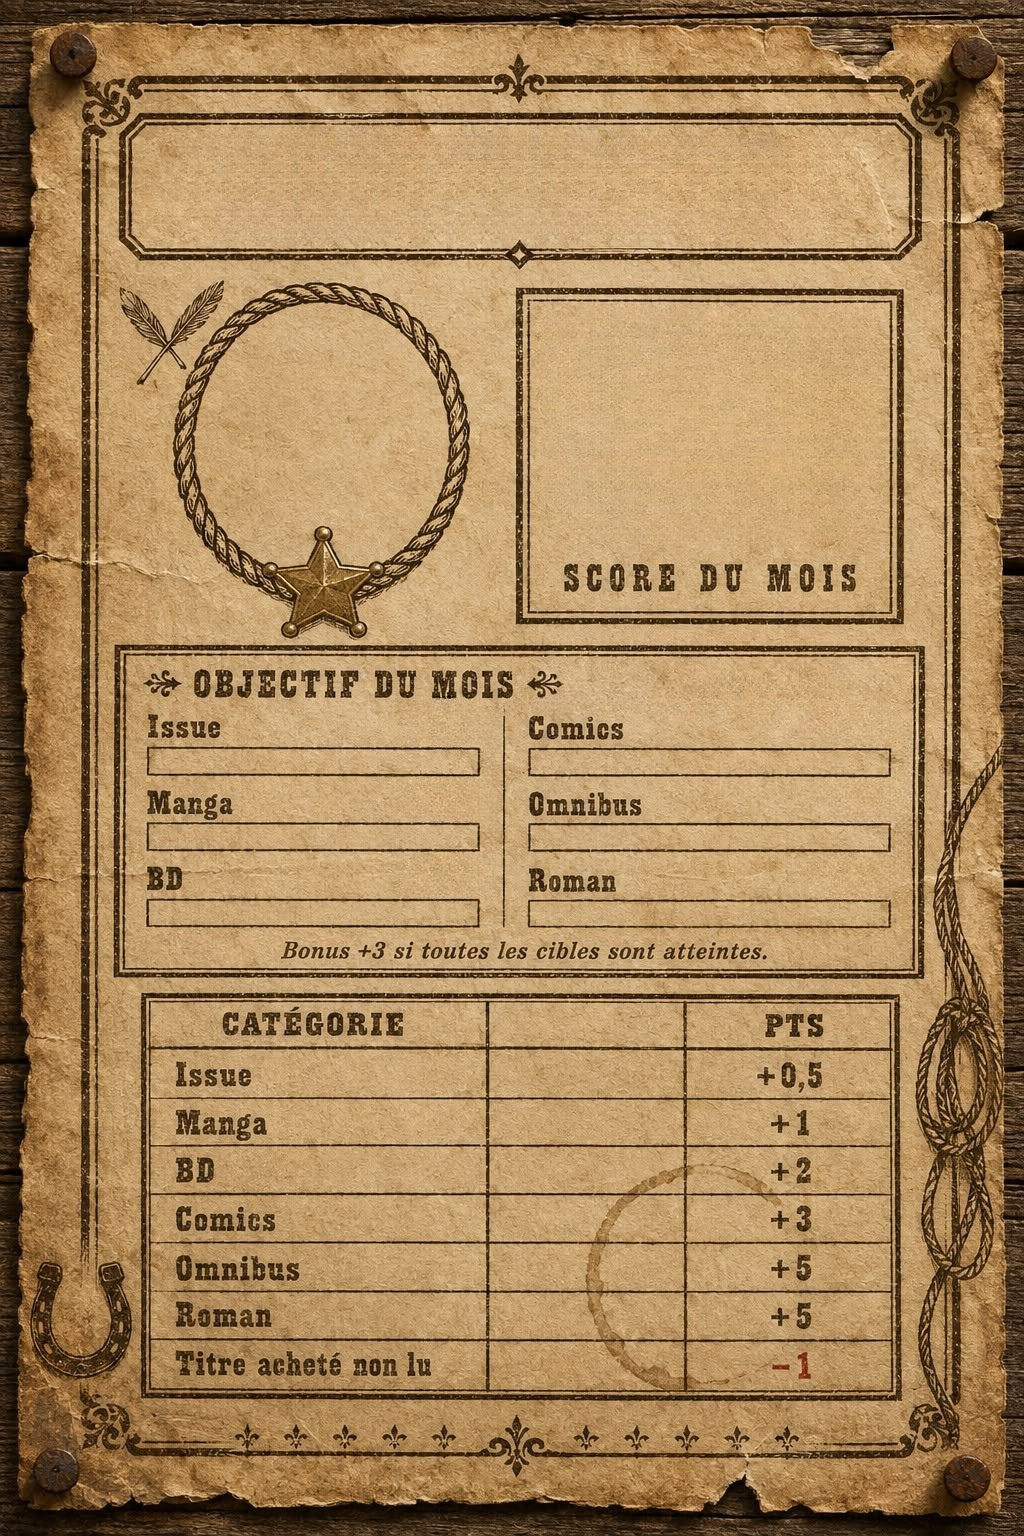
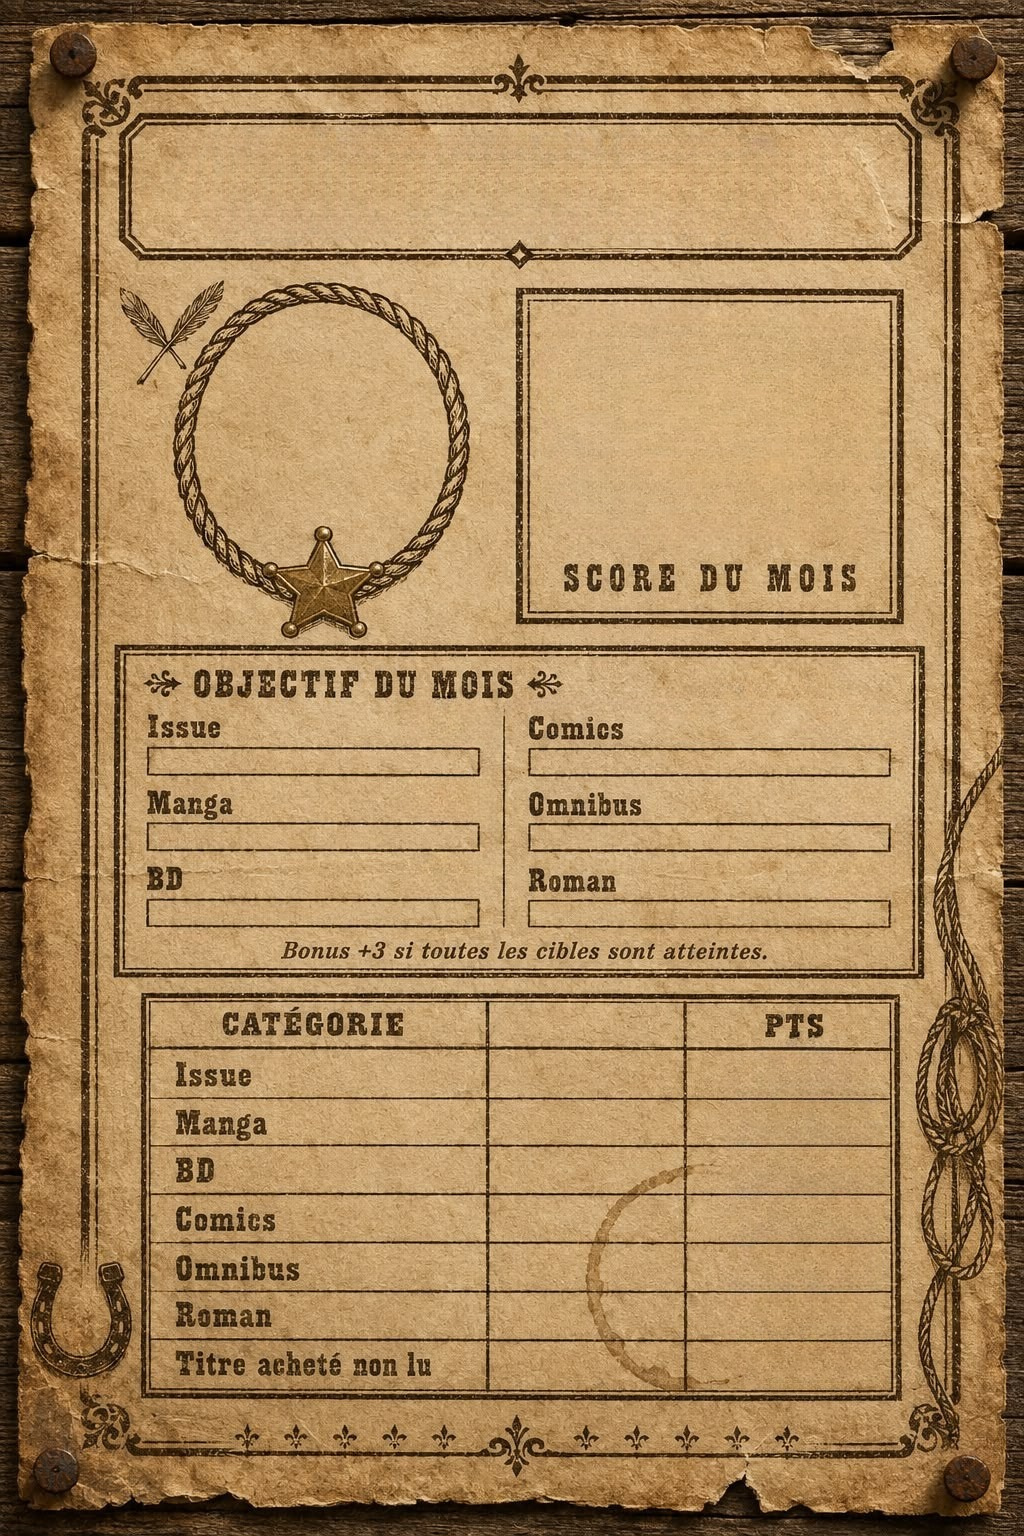
feat(partage): la colonne PTS affiche les points gagnés par ligne, pas le barème (#351)
La carte de partage montrait le barème incrusté (+0,5 … −1) dans la colonne
PTS. Elle dit désormais ce que chaque ligne rapporte au mois — lectures ×
barème, puis le malus des achats non lus : colonne + bonus = score.

- Fonds régénérés depuis les nouvelles vierges de Prem (colonne PTS vide,
  « 0 / 0 » et résidu « +21 » nettoyés), vignettes comprises.
- Style de l'ancien barème reproduit thème par thème (police, corps,
  interlettrage, encres) par superposition fond de prod − fond vierge ;
  centre x exact au vrai moteur, lignes y des compteurs (centre mesuré des
  cellules).
- Encre au signe : gain, malus, zéro neutre (crème cerclé sur Comics pop).

Changed region(s): [[0.7188, 0.6562, 0.8438, 0.9062]]

diff --git a/lib/share/themes.ts b/lib/share/themes.ts
@@ -119,6 +119,24 @@ export type ShareTheme = {
     x: number;
     /** Corps FIXE des compteurs. */
     countStyle: ShareTextStyle;
+    /**
+     * La colonne PTS : les points GAGNÉS par ligne (lectures × barème, malus
+     * des achats), sur les mêmes lignes `rows` que les compteurs. Police,
+     * corps, interlettrage et encres relevés par superposition sur le barème
+     * que les fonds portaient avant (fonds de prod − fonds vierges). Le zéro
+     * prend une encre neutre : un « 0 » rouge sur « Titre acheté non lu »
+     * annoncerait un malus qui n'existe pas.
+     */
+    points: {
+      /** Centre x de la colonne PTS. */
+      x: number;
+      /** Corps FIXE ; `color` est l'encre des gains. */
+      style: ShareTextStyle;
+      /** L'encre du malus. */
+      penaltyColor: string;
+      /** L'encre du zéro — par défaut celle des compteurs. */
+      zeroColor?: string;
+    };
   };
 };
 
@@ -154,6 +172,7 @@ export const SHARE_THEMES: readonly ShareTheme[] = [
     table: {
       rows: [1043, 1103, 1163, 1223, 1283, 1341, 1401], x: 565,
       countStyle: { font: "exo-2-600", size: 34, color: "#eae6f8" },
+      points: { x: 806, style: { font: "exo-2-600", size: 38, color: "#34d5a4", letterSpacing: 0.05 }, penaltyColor: "#d53761" },
     },
   },
   {
@@ -184,6 +203,7 @@ export const SHARE_THEMES: readonly ShareTheme[] = [
     table: {
       rows: [1130, 1178, 1222, 1268, 1312, 1358, 1404], x: 595,
       countStyle: { font: "special-elite", size: 38, color: "#3a332a" },
+      points: { x: 801, style: { font: "special-elite", size: 30, color: "#3c2c14", letterSpacing: 0.15 }, penaltyColor: "#763b28" },
     },
   },
   {
@@ -223,6 +243,7 @@ export const SHARE_THEMES: readonly ShareTheme[] = [
     table: {
       rows: [1068, 1123, 1178, 1235, 1290, 1346, 1402], x: 567,
       countStyle: { font: "oswald-600", size: 36, color: "#0b0907" },
+      points: { x: 812, style: { font: "oswald-600", size: 36, color: "#0b0806", letterSpacing: 0.05 }, penaltyColor: "#9a1613" },
     },
   },
   {
@@ -259,6 +280,7 @@ export const SHARE_THEMES: readonly ShareTheme[] = [
     table: {
       rows: [1068, 1120, 1171, 1223, 1275, 1326, 1377], x: 575,
       countStyle: { font: "eb-garamond-600", size: 37, color: "#d8c9a4" },
+      points: { x: 807, style: { font: "eb-garamond-600", size: 37, color: "#a78552", letterSpacing: 0.02 }, penaltyColor: "#8f3e30" },
     },
   },
   {
@@ -289,6 +311,7 @@ export const SHARE_THEMES: readonly ShareTheme[] = [
     table: {
       rows: [1067, 1120, 1173, 1227, 1281, 1335, 1390], x: 560,
       countStyle: { font: "special-elite", size: 38, color: "#362a17" },
+      points: { x: 790, style: { font: "special-elite", size: 36, color: "#261706", letterSpacing: 0.14 }, penaltyColor: "#4b290e" },
     },
   },
   {
@@ -319,6 +342,7 @@ export const SHARE_THEMES: readonly ShareTheme[] = [
     table: {
       rows: [1084, 1134, 1183, 1232, 1281, 1331, 1380], x: 565,
       countStyle: { font: "oswald-500", size: 35, color: "#d6d0c0" },
+      points: { x: 798, style: { font: "oswald-500", size: 29.5, color: "#b2aca4", letterSpacing: 0.15 }, penaltyColor: "#813538" },
     },
   },
   {
@@ -351,6 +375,7 @@ export const SHARE_THEMES: readonly ShareTheme[] = [
     table: {
       rows: [1073, 1127, 1180, 1234, 1288, 1342, 1396], x: 567,
       countStyle: { font: "eb-garamond-500", size: 37, color: "#5f4a44" },
+      points: { x: 801, style: { font: "eb-garamond-500", size: 34, color: "#604c44", letterSpacing: 0.03 }, penaltyColor: "#a07d7c" },
     },
   },
   {
@@ -394,6 +419,7 @@ export const SHARE_THEMES: readonly ShareTheme[] = [
     table: {
       rows: [995, 1036, 1077, 1118, 1159, 1200, 1241], x: 570,
       countStyle: { font: "rajdhani-700", size: 34, color: "#8ecfec" },
+      points: { x: 778, style: { font: "rajdhani-700", size: 34, color: "#86d1ef", letterSpacing: 0.05 }, penaltyColor: "#c06364" },
     },
   },
   {
@@ -439,6 +465,20 @@ export const SHARE_THEMES: readonly ShareTheme[] = [
     table: {
       rows: [1043, 1096, 1149, 1201, 1254, 1306, 1360], x: 572,
       countStyle: { font: "archivo-black", size: 34, color: "#16120e" },
+      points: {
+        // Le seul qui quitte la police des compteurs : le barème du fond était
+        // en capitales grasses penchées, cerclées de noir (contour centré sur le
+        // tracé → 7 px pour ~3,5 px visibles autour du remplissage).
+        x: 808,
+        style: {
+          font: "archivo-black", size: 40, color: "#1f4a8f", letterSpacing: 0.02, skewDeg: -10,
+          stroke: { width: 7, color: "#15100c" },
+        },
+        penaltyColor: "#c42e25",
+        // L'encre des compteurs sous ce contour noir ferait une tache : le zéro
+        // prend le crème du pseudo, cerclé comme lui.
+        zeroColor: "#f2e5c8",
+      },
     },
   },
   {
@@ -469,6 +509,7 @@ export const SHARE_THEMES: readonly ShareTheme[] = [
     table: {
       rows: [1075, 1123, 1170, 1219, 1267, 1315, 1364], x: 590,
       countStyle: { font: "graduate", size: 38, color: "#46301a" },
+      points: { x: 792, style: { font: "graduate", size: 32, color: "#4b2f0d", letterSpacing: 0.04 }, penaltyColor: "#783210" },
     },
   },
 ];

diff --git a/lib/share/render-card.ts b/lib/share/render-card.ts
@@ -1,3 +1,4 @@
+import { formatPoints } from "@/lib/scoring/report-text";
 import { formatObjectiveCell, type ShareCardData } from "@/lib/share/card-data";
 import {
   CARD_HEIGHT,
@@ -44,6 +45,7 @@ function themeFontKeys(theme: ShareTheme): ShareFontKey[] {
       theme.score.style.font,
       theme.objectives.valueStyle.font,
       theme.table.countStyle.font,
+      theme.table.points.style.font,
     ]),
   ];
 }
@@ -273,6 +275,18 @@ function drawCounts(ctx: Ctx, theme: ShareTheme, data: ShareCardData): void {
   });
 }
 
+/**
+ * La colonne PTS : ce que chaque ligne rapporte, à l'encre du signe — gain,
+ * malus, ou l'encre neutre du zéro (§4.15).
+ */
+function drawPoints(ctx: Ctx, theme: ShareTheme, data: ShareCardData): void {
+  const { x, style, penaltyColor, zeroColor = theme.table.countStyle.color } = theme.table.points;
+  data.points.forEach((points, index) => {
+    const color = points > 0 ? style.color : points < 0 ? penaltyColor : zeroColor;
+    drawText(ctx, formatPoints(points), x, theme.table.rows[index], { ...style, color });
+  });
+}
+
 // --- L'entrée du moteur ------------------------------------------------------
 
 /**
@@ -304,6 +318,7 @@ export async function renderShareCard(
   drawText(ctx, data.score, theme.score.x, theme.score.y, theme.score.style, { maxWidth: theme.score.maxWidth });
   drawObjectives(ctx, theme, data);
   drawCounts(ctx, theme, data);
+  drawPoints(ctx, theme, data);
 }
 
 /** L'image à partager — JPEG qualité 0,9 (~300 Ko), parfait pour une feuille native. */

diff --git a/lib/share/card-data.test.ts b/lib/share/card-data.test.ts
@@ -58,6 +58,30 @@ describe("deriveShareCardData", () => {
     expect(card.counts).toEqual([37, 0, 0, 7, 0, 2, 1]);
   });
 
+  it("la colonne PTS : ce que chaque ligne rapporte, pas le barème", () => {
+    const card = deriveShareCardData(augustReport, "Premou");
+    // 37 issues × 0,5 · 7 comics × 3 · 2 romans × 5 · 1 achat non lu × −1.
+    expect(card.points).toEqual([18.5, 0, 0, 21, 0, 10, -1]);
+  });
+
+  it("colonne PTS + bonus d'objectif = score du mois", () => {
+    const sum = (values: number[]) => values.reduce((total, value) => total + value, 0);
+    const august = deriveShareCardData(augustReport, "Premou");
+    expect(sum(august.points)).toBe(augustReport.total);
+
+    const achieved: MonthlyReport = {
+      ...augustReport,
+      objective: { progress: [{ category: "comics", target: 6, finished: 7 }], achieved: true, bonus: 3 },
+      total: 51.5,
+    };
+    expect(sum(deriveShareCardData(achieved, "Premou").points) + 3).toBe(achieved.total);
+  });
+
+  it("sans achat non lu, la ligne du malus vaut 0 — jamais −0", () => {
+    const card = deriveShareCardData({ ...augustReport, unreadPurchaseCount: 0, purchasePenalty: 0, total: 49.5 }, "x");
+    expect(Object.is(card.points[6], 0)).toBe(true);
+  });
+
   it("sans objectif déclaré, les 6 cellules sont « — »", () => {
     const card = deriveShareCardData({ ...augustReport, objective: null }, "Premou");
     expect(card.objectives).toEqual([null, null, null, null, null, null]);

diff --git a/lib/share/card-data.ts b/lib/share/card-data.ts
@@ -1,5 +1,6 @@
 import { formatMonthFrench } from "@/lib/dates";
 import { formatPoints } from "@/lib/scoring/report-text";
+import { SCORING_SCALE } from "@/lib/scoring/scale";
 import { ALL_CATEGORIES, type MonthlyReport } from "@/lib/scoring/types";
 
 /**
@@ -32,6 +33,12 @@ export type ShareCardData = {
   objectives: ShareObjectiveCell[];
   /** 7 compteurs : les 6 catégories puis « Titre acheté non lu ». */
   counts: number[];
+  /**
+   * 7 points, alignés sur les compteurs : ce que chaque ligne RAPPORTE au mois
+   * (lectures × barème, puis le malus des achats non lus). Le bonus d'objectif
+   * n'a pas de ligne au tableau : colonne + bonus = score.
+   */
+  points: number[];
 };
 
 export function deriveShareCardData(report: MonthlyReport, displayName: string): ShareCardData {
@@ -47,6 +54,10 @@ export function deriveShareCardData(report: MonthlyReport, displayName: string):
       return { finished: line.finished, target: line.target, ratio: Math.min(1, line.finished / line.target) };
     }),
     counts: [...ALL_CATEGORIES.map((category) => report.finishedByCategory[category]), report.unreadPurchaseCount],
+    points: [
+      ...ALL_CATEGORIES.map((category) => report.finishedByCategory[category] * SCORING_SCALE.pointsByCategory[category]),
+      report.purchasePenalty,
+    ],
   };
 }
 

diff --git a/lib/share/themes.test.ts b/lib/share/themes.test.ts
@@ -68,11 +68,26 @@ describe("SHARE_THEMES", () => {
     }
   });
 
+  it("la colonne PTS : à droite des compteurs, dans le cadre, trois encres pleines", () => {
+    for (const theme of SHARE_THEMES) {
+      const { points, countStyle } = theme.table;
+      expect(points.x).toBeGreaterThan(theme.table.x);
+      expect(points.x).toBeLessThan(CARD_WIDTH);
+      expect(points.style.size).toBeGreaterThan(0);
+      // Gain, malus, zéro (encre des compteurs) : l'encre se choisit au signe,
+      // un dégradé n'aurait pas de sens ici.
+      expect(points.style.gradient).toBeUndefined();
+      for (const color of [points.style.color, points.penaltyColor, points.zeroColor ?? countStyle.color]) {
+        expect(color).toMatch(/^#[0-9a-f]{6}$/i);
+      }
+    }
+  });
+
   it("chaque police référencée existe dans le registre auto-hébergé", () => {
     for (const theme of SHARE_THEMES) {
       const keys = [
         theme.name.style.font, theme.month.style.font, theme.score.style.font,
-        theme.objectives.valueStyle.font, theme.table.countStyle.font,
+        theme.objectives.valueStyle.font, theme.table.countStyle.font, theme.table.points.style.font,
       ];
       for (const key of keys) expect(SHARE_FONTS[key]).toBeDefined();
     }

diff --git a/lib/share/guest-report.test.ts b/lib/share/guest-report.test.ts
@@ -91,6 +91,8 @@ describe("buildGuestReport", () => {
     expect(card.name).toBe("LÉNA");
     expect(card.monthLabel).toBe("SEPTEMBRE 2026");
     expect(card.counts).toEqual([4, 2, 1, 3, 0, 1, 2]);
+    // Le vrai barème, jamais recopié : 4 × 0,5 · 2 × 1 · 1 × 2 · 3 × 3 · 0 · 1 × 5 · 2 × −1.
+    expect(card.points).toEqual([2, 2, 2, 9, 0, 5, -2]);
     expect(card.objectives[0]).toEqual({ finished: 4, target: 5, ratio: 4 / 5 });
   });
 });

diff --git a/docs/protos/templates/README.md b/docs/protos/templates/README.md
@@ -26,10 +26,11 @@ vides. Avant de câbler le rendu, il faudra régénérer ces zones **vides**
 trancher une stratégie de recouvrement. La colonne des compteurs du tableau,
 elle, est déjà vide — prête à recevoir les chiffres.
 
-Le barème incrusté (PTS) correspond à `lib/scoring/scale.ts` : issue +0,5,
-manga +1, BD +2, comics +3, omnibus +5, roman +5, titre acheté non lu −1,
-bonus objectif +3. **À revérifier à chaque nouveau thème généré** — un barème
-qui divergerait mentirait à l'antenne.
+Les originaux `theme_N` portent le barème incrusté dans la colonne PTS
+(+0,5 … −1). **Les vierges ne l'ont plus** (01/10/2026) : la colonne PTS
+affiche désormais ce que chaque ligne RAPPORTE, dessiné par l'app (specs
+§4.15). Seul le « Bonus +3 » reste incrusté — **à revérifier contre
+`lib/scoring/scale.ts` à chaque nouveau thème généré**.
 
 ## Fonds vierges (`theme_N_virgin`) — état du 01/09/2026
 
@@ -58,3 +59,20 @@ score t1 rapproché du trait rouge, t3 recentré plus haut, t5 décalé à
 gauche, t6 posé sur la ligne ornée au-dessus de « SCORE DU MOIS », t9 sans
 jamais sortir du cadre — et test « +102,5 » (3 chiffres) sur les 10, avec
 rétrécissement automatique pour ne déborder nulle part.
+
+## Fonds vierges — passe du 01/10/2026
+
+Retouche des vierges précédentes (même cadrage, calage conservé) : les six
+« 0 / 0 » des objectifs, le résidu « +21 » de `theme_9` **et la colonne PTS**
+sont vidés sur les 10. Différence mesurée avec les fonds de prod : seule la
+colonne PTS bouge (et la trame du bloc objectifs de `theme_8`, régénérée à
+l'identique : mêmes jauges, mêmes libellés).
+
+**Calage de la colonne PTS** — par superposition, sans passer par le proto :
+l'encre de l'ancien barème = |fond de prod − fond vierge|, et un banc
+(Edge headless, vrai canvas) cherche police, corps, interlettrage et centre x
+qui la recouvrent au mieux (corrélation normalisée, robuste au grain des fonds
+texturés), puis échantillonne les encres au cœur des glyphes. Vérifié ensuite
+avec le vrai moteur : centre x exact (0-1 px) sur les 10. En y, les points
+suivent les lignes des compteurs, qui tombent au centre mesuré des cellules
+(0-3 px) — l'ancien barème, lui, dérivait jusqu'à 7 px (t1, t4).

diff --git a/docs/product-specs.md b/docs/product-specs.md
@@ -919,8 +919,16 @@ décisions tranchées en discussion (août 2026, protos `docs/protos/`) :
   est **remise à plus tard** : elle exigera sa propre déclinaison de fonds, avec une zone dédiée.
 - **Des fonds fixes, l'app ne dessine que les données.** Les 10 thèmes (`docs/protos/templates/`,
   2:3, 1024×1536) partagent la **même grille** : UN fichier de coordonnées les sert tous, un thème
-  de plus = une image de plus, zéro code. Le barème est incrusté dans les fonds → **à revérifier
-  contre `lib/scoring/scale.ts` à chaque fond ajouté** (un barème divergent mentirait à l'antenne).
+  de plus = une image de plus, zéro code. Seul le « Bonus +3 » reste incrusté dans les fonds →
+  **à revérifier contre `lib/scoring/scale.ts` à chaque fond ajouté** (un barème divergent
+  mentirait à l'antenne).
+- **La colonne PTS dit ce que chaque ligne RAPPORTE (décision du 01/10/2026)**, pas le barème :
+  « 37 issues → +18,5 », « 1 titre acheté non lu → −1 ». La colonne + le bonus d'objectif = le
+  score du mois. Les fonds portaient le barème incrusté (+0,5, +1… −1) : ils ont été régénérés
+  colonne PTS vide, et l'app dessine les points dans le style exact de l'ancien barème — police,
+  corps, interlettrage et encres relevés par superposition (fond de prod − fond vierge), sur les
+  lignes des compteurs (le centre réel des cellules, mesuré). Encre au signe : gain, malus, et un
+  zéro neutre — un « 0 » rouge annoncerait un malus qui n'existe pas.
 - **Rendu côté client, au canvas** : tout est déjà dans le navigateur au moment du Bilan (rapport,
   avatar) — zéro coût serveur. Partage via `navigator.share({ files })` (feuille native mobile),
   repli téléchargement sur desktop. L'option **texte** existante reste : deux formats, deux usages
